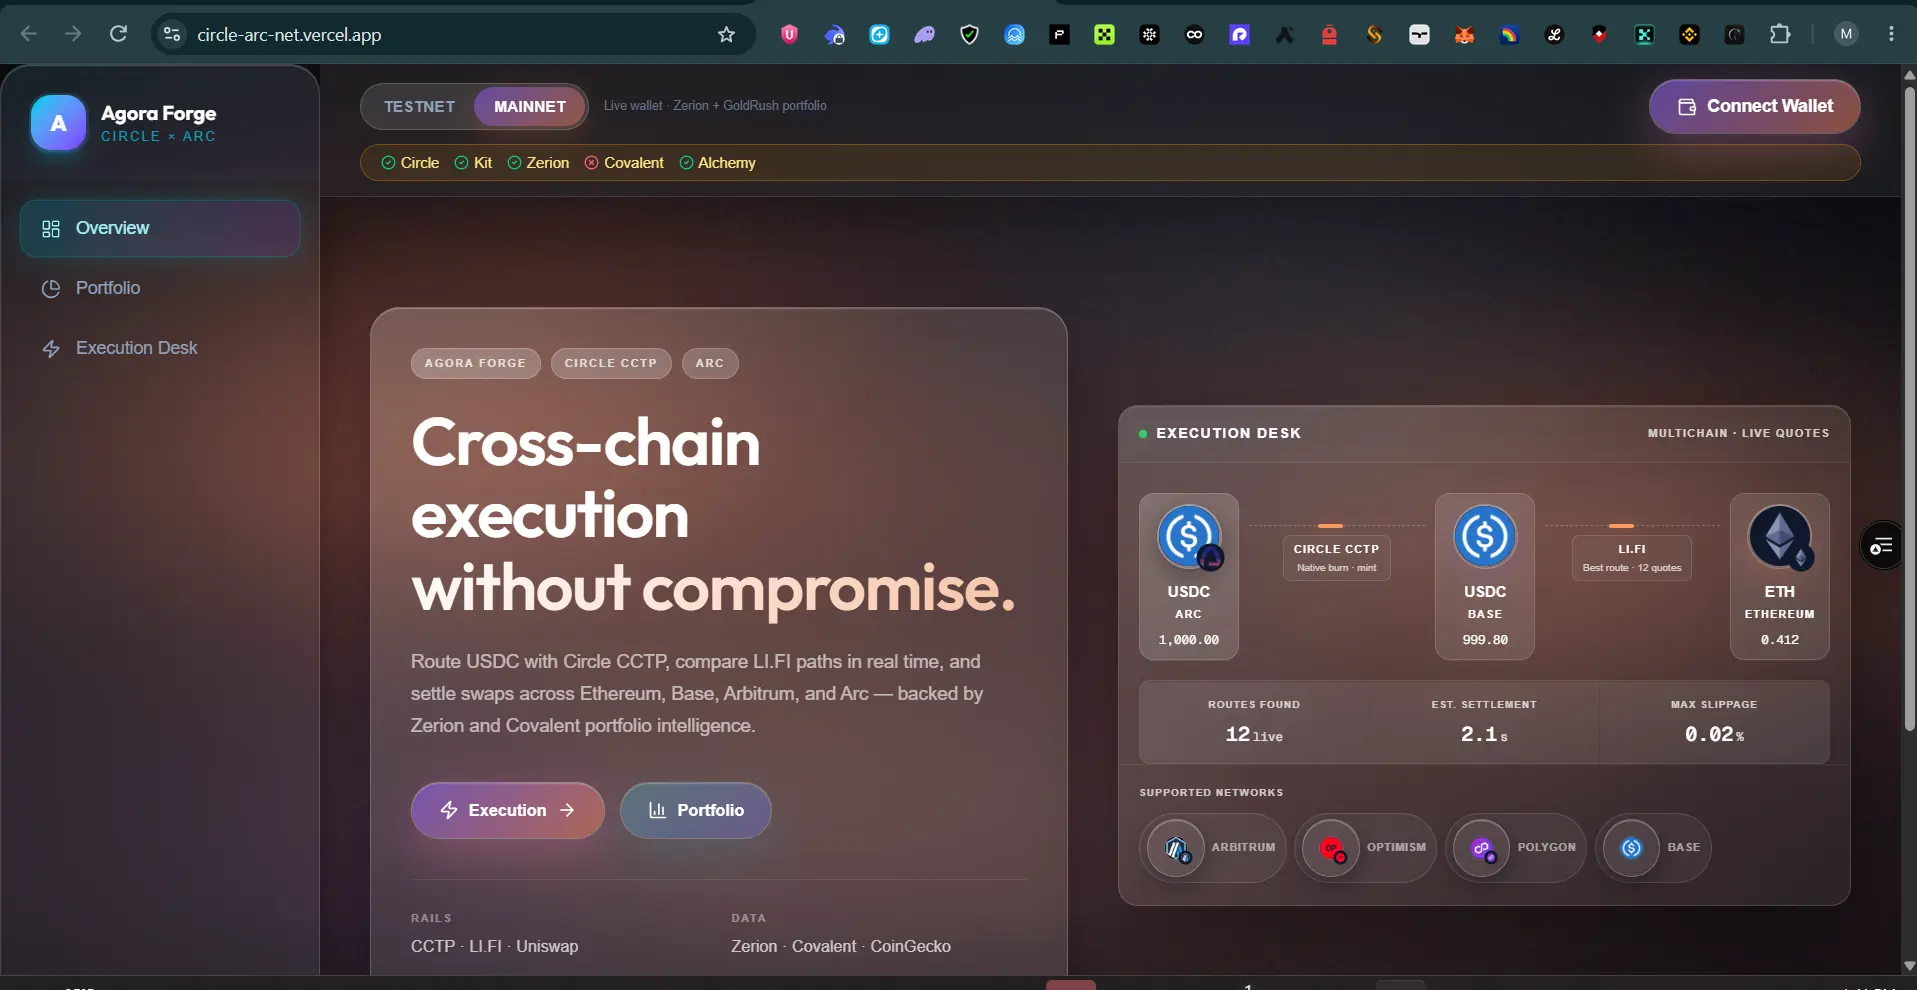
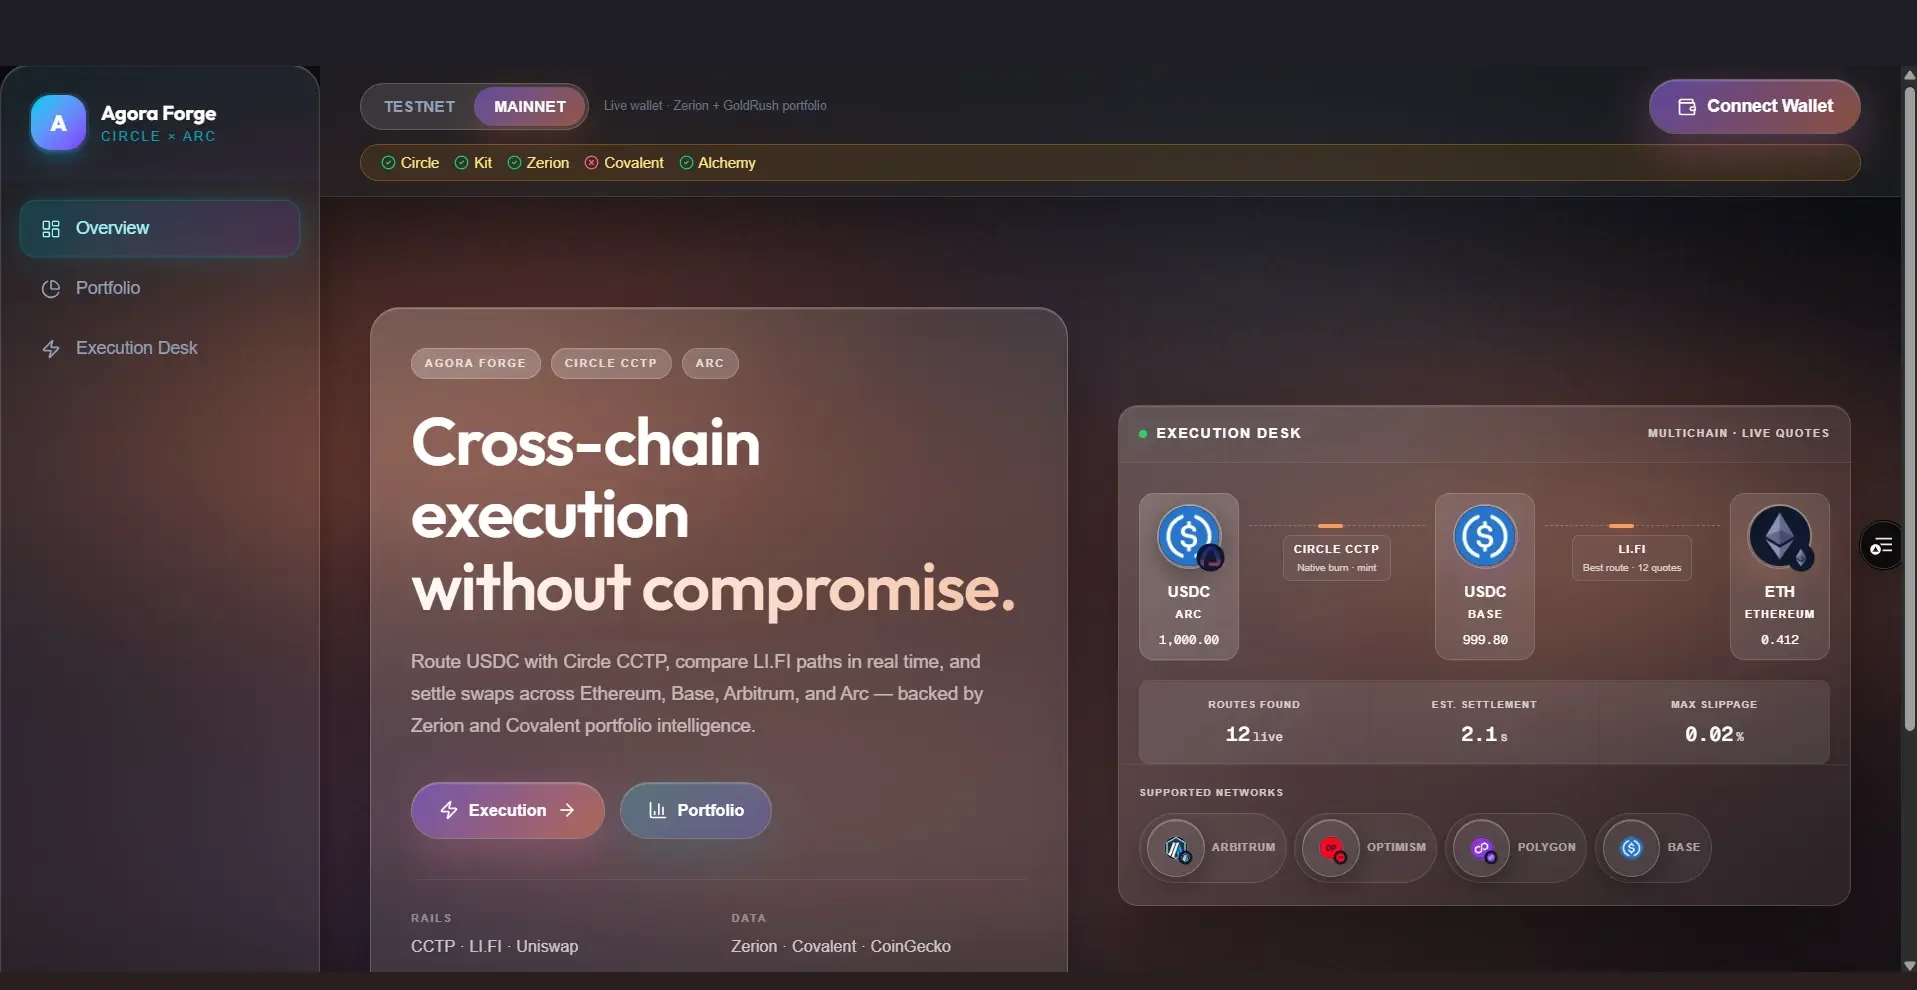
Pre-merge fixes: sanitize public screenshots, clean schema images, truthful dates
- Mask browser chrome, taskbar and account chip in the homepage preview screenshots
  (same dimensions, homepage design unchanged); remove unreferenced full-res PNGs
- SoftwareApplication.image uses the clean viewport crops
- dateModified, visible bylines and sitemap lastmod move to 2026-09-30 for the 26
  redesigned pages only; homepage keeps 2026-09-27
- Larger tap targets for reference and author links
- Manifest: final QA verdict and pre-merge decisions

Claude-Session: https://claude.ai/code/session_012q4AQy1Bon1p8S2b9CMAYx

Changed region(s): [[0.0, 0.0, 1.0, 0.0909], [0.2154, 0.9697, 0.5848, 1.0]]

diff --git a/app/site/schema.ts b/app/site/schema.ts
@@ -17,7 +17,7 @@ export function projectSchema(project: Project) {
   const url = `${origin}/work/${project.slug}/`, media = projectMedia[project.slug];
   return { "@context": "https://schema.org", "@graph": [
     { "@type": "WebPage", "@id": `${url}#webpage`, url, name: `${project.name} software case study`, description: project.description, isPartOf: { "@id": `${origin}/#website` }, dateModified: updated },
-    { "@type": "SoftwareApplication", "@id": `${url}#software`, name: project.name, description: project.description, url: project.live, author: { "@id": `${origin}/#person` }, applicationCategory: "BusinessApplication", image: `${origin}${media.image.replace("-viewport", "")}` /* unchanged from main; the cleaner viewport crop is an SEO-workstream recommendation */, dateModified: updated },
+    { "@type": "SoftwareApplication", "@id": `${url}#software`, name: project.name, description: project.description, url: project.live, author: { "@id": `${origin}/#person` }, applicationCategory: "BusinessApplication", image: `${origin}${media.image}`, dateModified: updated },
     crumb([["Home", `${origin}/`], ["Work", `${origin}/work/`], [project.name, url]]),
   ] };
 }
@@ -54,5 +54,5 @@ export function aboutSchema() {
 
 export function contactSchema() {
   const url = `${origin}/contact/`;
-  return { "@context": "https://schema.org", "@type": "ContactPage", "@id": `${url}#webpage`, url, name: "Start a software project", isPartOf: { "@id": `${origin}/#website` }, about: { "@id": `${origin}/#business` }, dateModified: "2026-09-27" };
+  return { "@context": "https://schema.org", "@type": "ContactPage", "@id": `${url}#webpage`, url, name: "Start a software project", isPartOf: { "@id": `${origin}/#website` }, about: { "@id": `${origin}/#business` }, dateModified: updated };
 }

diff --git a/app/site/pages/work.tsx b/app/site/pages/work.tsx
@@ -1,4 +1,4 @@
-import { projectMedia, projects, services, type Project } from "../content";
+import { projectMedia, projects, services, updatedLong, type Project } from "../content";
 import { hubHeadings, hubSchema, projectSchema } from "../schema";
 import { ContextCta, Crumbs, Schema } from "../chrome";
 import { Diagram } from "../ui/Diagram";
@@ -21,7 +21,7 @@ export function CaseStudy({ project }: { project: Project }) {
     <div className="band band--deep"><div className="band__inner">
       <AnnotatedShot eager shot={{ src: media.image, width: media.width, height: media.height, alt: media.alt, host: hostOf(project.live) }} notes={visual.notes} caption="Product interface from the working public build." />
     </div></div>
-    <p className="seo-byline case-byline">Product and engineering work by Muhammad Abdullah · Updated September 27, 2026</p>
+    <p className="seo-byline case-byline">Product and engineering work by Muhammad Abdullah · Updated {updatedLong}</p>
     <Section index={idx()} label="Context" title="Problem and constraints">
       <div className="prose"><p>{project.context}</p><p>The product needed to make a technically dense workflow understandable without hiding the states a user must evaluate. The public build and source repository are linked above; no private client metrics are claimed.</p></div>
     </Section>

diff --git a/app/site/pages/guides.tsx b/app/site/pages/guides.tsx
@@ -1,5 +1,5 @@
 import type { ReactNode } from "react";
-import { guideSources, guides, projects, services, type Guide } from "../content";
+import { guideSources, guides, projects, services, updatedLong, type Guide } from "../content";
 import { guideSchema, hubHeadings, hubSchema } from "../schema";
 import { Author, ContextCta, Crumbs, Schema } from "../chrome";
 import { Diagram, type DiagramSpec } from "../ui/Diagram";
@@ -39,7 +39,7 @@ export function GuideShell({ guide, kind, toc, words, children, cta, minRead = 4
           <p className="ab-eyebrow">{guide.category} / {kind}</p>
           <h1>{guide.title}<span className="pg-hero__dot">.</span></h1>
           <div className="pg-hero__lede"><p>{guide.description}</p></div>
-          <p className="pg-hero__meta">By Muhammad Abdullah · Published {longDate(published)} · Updated September 27, 2026 · {readingTime} min read</p>
+          <p className="pg-hero__meta">By Muhammad Abdullah · Published {longDate(published)} · Updated {updatedLong} · {readingTime} min read</p>
         </div>
       </header>
       {feature && <div className="band band--grid guide-feature"><div className="band__inner">{feature}</div></div>}

diff --git a/app/site/content.ts b/app/site/content.ts
@@ -1,7 +1,9 @@
 // Site content: services, projects, guides and their supporting data.
 // Moved verbatim from app/[...slug]/page.tsx so each page composition can import it.
 export const origin = "https://abdullahbuilt.top";
-export const updated = "2026-09-27";
+// Last substantive content change on the secondary pages (v3 redesign added page-specific content).
+export const updated = "2026-09-30";
+export const updatedLong = "September 30, 2026";
 
 export type Service = {
   slug: string; name: string; title: string; description: string;

diff --git a/app/site/ui/site.css b/app/site/ui/site.css
@@ -818,3 +818,6 @@
 .dg__node:has(>.dg__spine-zone)>.dg__index{grid-row:2 / span 3}
 @media (max-width: 1080px){.sec--band,.sec--wide,.sec--center{grid-template-columns:1fr}}
 .article__body .rail__title{margin:0 0 16px;font:500 11.5px/1 var(--mono);letter-spacing:.14em}
+/* Comfortable targets for inline links in lists and bylines (WCAG 2.2 target size) */
+.refs a{display:inline-block;padding:6px 0}
+.author .x-link,.sec__intro .x-link{display:inline-block;padding:4px 0}

diff --git a/app/ContactPage.tsx b/app/ContactPage.tsx
@@ -24,7 +24,7 @@ export default function ContactPage({ requestedService = "", source = "" }: { re
     name: "Start a software project",
     isPartOf: { "@id": `${origin}/#website` },
     about: { "@id": `${origin}/#business` },
-    dateModified: "2026-09-27",
+    dateModified: "2026-09-30",
   };
 
   return <>

diff --git a/docs/secondary-page-design-manifest.md b/docs/secondary-page-design-manifest.md
@@ -36,7 +36,9 @@ QA columns: **SEO** = title, description, canonical, hreflang, JSON-LD, H1 and i
 | 26 | `/about/` | Entity | Principles, capability map, proof, real profiles | ✓ | ✓ | ✓ | 1440 | pending |
 | 27 | `/contact/` | Conversion | Quiet form, contextual preselect, next steps | ✓ | ✓ | ✓ | 1440 · 390 | pending |
 
-Latest verification (local production build): lint + typecheck clean · Playwright 382/382 · HTTP/SEO 72/72 · SEO regression 27/27 · interaction audit 821 elements, 0 failures · SSR diff vs `main`: 0 metadata / JSON-LD / H1 / link differences.
+Latest verification (local production build): lint + typecheck clean · Playwright 382/382 (both suites) · SEO regression 27/27 · interaction audit 821 elements, 0 failures · SSR diff vs `main`: metadata, canonicals, H1s and internal links identical; JSON-LD identical except the intentional date and clean-image changes below.
+
+Final visual QA (all 26 pages × 1440 / 820 / 390, full scroll, automated overlap / gap / clipping / console detectors plus contact-sheet review): **PASS WITH P2 ONLY**. The P2s are that the service pages share one lower-page structure (delivery, proof, stack, FAQ) and that some inline links are small (enlarged where cheap). The Claude-in-Chrome extension was not available in this environment, so this QA was run with headless Chromium.
 
 ## System
 
@@ -89,9 +91,14 @@ Metadata, canonicals, JSON-LD, H1s and internal links are unchanged. These visib
 3. **Eyebrows** such as "SERVICE / …" and "CASE STUDY / …" are now uppercased with CSS (text content changes case only).
 4. **Additions:** signals ("Signs …"), scope/comparison matrices, case-study rationale and annotations, About principles and capability map. All are drawn from the existing copy or public builds; there are no prices, metrics, testimonials or credentials.
 
+## Pre-merge decisions (final execution command)
+
+- **Screenshot privacy (P0).** The four original screenshots used by the homepage hover previews (`/assets/{resolve,meridian,repodiet,agora}.webp`) were sanitized in place, with dimensions unchanged: browser chrome, extension icons, the Windows taskbar (weather, clock, open apps) and the `abdullahlp114` account chip are masked with the adjacent app background. The homepage design is unchanged. The unreferenced full-resolution `*.png` originals were removed from `public/assets`.
+- **Structured data.** `SoftwareApplication.image` now points to the clean `-viewport.webp` crops. This is the only JSON-LD value that differs from `main` apart from dates.
+- **Dates.** The 26 secondary pages gained substantive content in the redesign (new sections, matrices, guide-specific checklists), so `dateModified`, the visible "Updated" bylines and the sitemap `lastmod` move to 2026-09-30. The homepage keeps 2026-09-27 because its content did not change. Guide `datePublished` values are untouched.
+
 ## Owner inputs still needed
 
-- The homepage hover previews still use the uncropped screenshots (browser chrome, username); the homepage is locked.
-- JSON-LD `SoftwareApplication.image` is kept on the original screenshots to match `main`. Recommend switching it to the clean `-viewport.webp` crops in the SEO workstream.
-- A real integration failure example, and the AI providers used, would strengthen the API and AI pages.
-- `dateModified` should be bumped at merge. Resend environment variables are still unverified in production. No production inquiry was sent.
+- `[OWNER INPUT NEEDED]` A real integration failure you handled, and the AI model providers actually used, would strengthen the API and AI pages. Nothing has been invented in their place.
+- Production email delivery (Resend environment variables) cannot be verified from this environment without sending a real inquiry, which is not allowed. It remains **unverified**.
+- Google Images may keep cached copies of the old unsanitized screenshots until it recrawls them.
